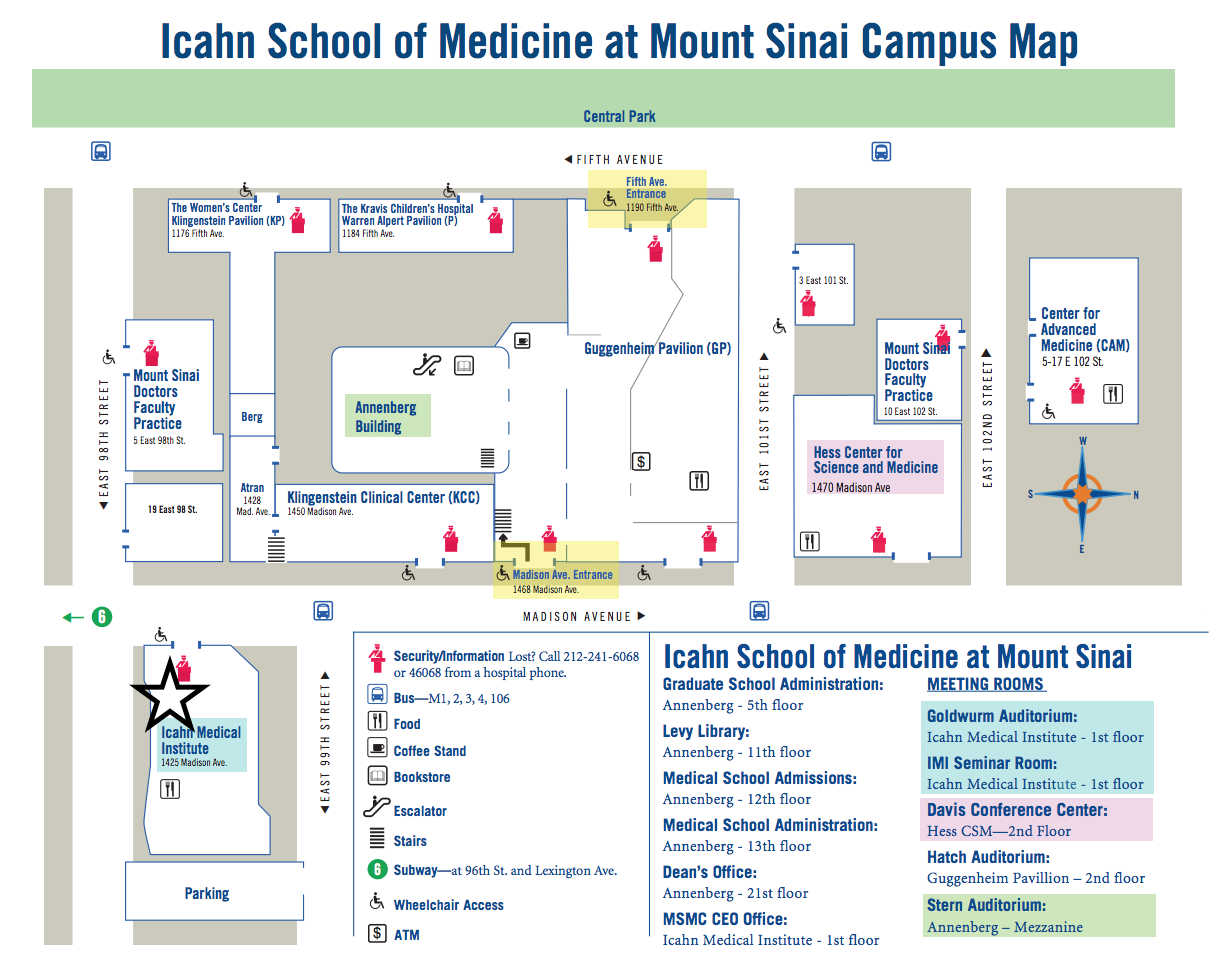
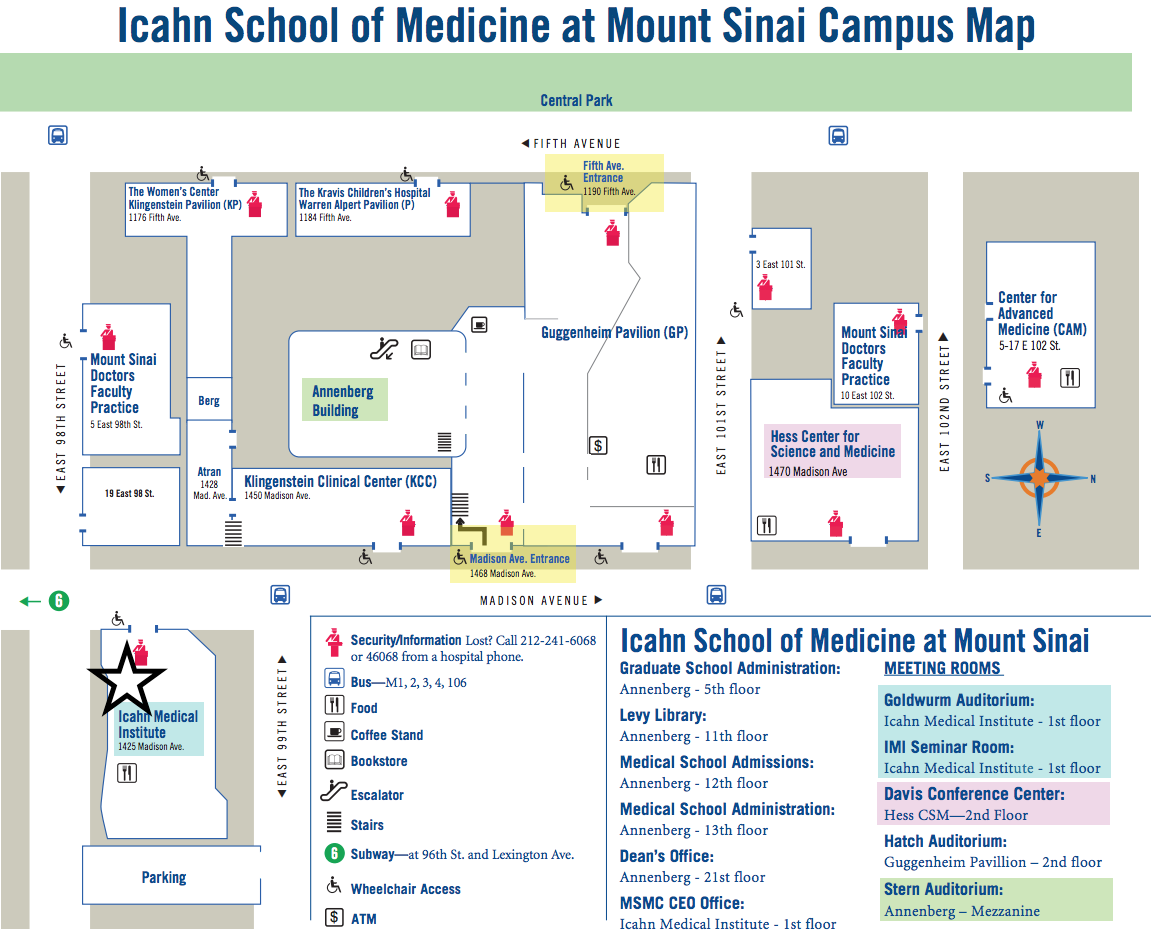
formatting & some words

diff --git a/misc/_posts/2013-10-27-join.md b/misc/_posts/2013-10-27-join.md
@@ -3,5 +3,8 @@ layout: misc
 title: Join
 ---
 
+We are always looking for talented researchers of all backgrounds to join our group. If you are interested in a position, please send the following items to bojan.losic@mssm.edu.
 
-We are always looking for talented researchers of all backgrounds to join our group. If you are interested in a position, please send a (1) current resume or CV (2) a cover letter or short statement of research interests, and (3) the names and contacts for three references to ().
+1. a current resume or CV
+2. a cover letter or statement of research interests
+3. the names and contacts for three references

diff --git a/misc/_posts/2013-10-28-about.md b/misc/_posts/2013-10-28-about.md
@@ -7,6 +7,10 @@ title: About
 
 This website is meant to be an open science showcase for recent work from the Losic Lab.  Feel free to check out our [blog](/blog/) for news and smaller analyses, in addition to the [project pages](/projects/) that mirror the research developments that are ongoing at [GitHub](https://github.com/LosicLab).
 
+## About the Lab
+
+The Losic Lab (insert about description here)
+
 ## Source code
 
 We would like to thank the [Bedford Lab](http://bedford.io) for making their site source code [freely available on GitHub](https://github.com/blab/blotter) for us to use and adapt for the creation of this site.

diff --git a/misc/_posts/2013-10-25-contact.md b/misc/_posts/2013-10-25-contact.md
@@ -3,13 +3,15 @@ layout: misc
 title: Contact
 ---
 
-<a href="https://goo.gl/maps/11TrJhQ9x8w"><img class="pull-right" src="/images/mssm-campus.png"/></a>
+<a href="https://goo.gl/maps/11TrJhQ9x8w"><img class="pull-left" style="width:800px;" src="/images/mssm-campus.png"/></a>
 
 <address>
 	Bojan Losic<br>
 	Icahn Building<br>  
 	1425 Madison Ave<br>
-	New York, NY 
+	New York, NY <br>
+	bojan.losic@mssm.edu <br>
+	(XXX) XXX-XXXX <br>
 	<p>&nbsp;<br>
-	<img class="pull-left" src="/images/mssm-logo.png">  
+	<img class="pull-right" style="width:120px;" src="/images/mssm-logo.png">  
 </address>

diff --git a/blog/_posts/2018-05-30-welcome.md b/blog/_posts/2018-05-30-welcome.md
@@ -1,0 +1,7 @@
+---
+layout: post
+title: Welcome
+author: Paula Restrepo
+---
+
+Welcome to our site! 
